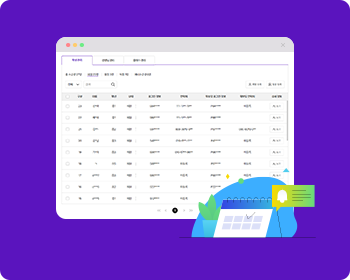
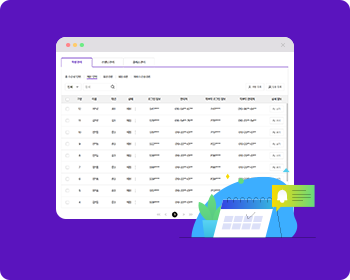
메인, 교재, 문제지 수정

diff --git a/inc/css/sub_que.css b/inc/css/sub_que.css
@@ -857,6 +857,9 @@
 .sub06-que .sub06-student .tab-list-type01 .chk-acc span:nth-child(8) .btn-icon {
   width: 36px;
 }
+.sub06-que .sub06-student .tab-list-type01 .chk-acc span .box {
+  border: 1px solid #ddd;
+}
 .sub06-que .sub06-student .tab-list-type01 .chk-acc span .box em {
   position: absolute;
   color: #333333;
@@ -864,7 +867,7 @@
 }
 .sub06-que .sub06-student .tab-list-type01 .chk-acc span .box em:nth-child(1) {
   top: 3px;
-  left: 3px;
+  right: 33px;
 }
 .sub06-que .sub06-student .tab-list-type01 .chk-acc span .box em:nth-child(1)::after {
   position: absolute;
@@ -982,10 +985,12 @@
   justify-content: space-between;
 }
 .sub08-01 .tab-list-type02 .num {
-  width: 47px;
+  width: 56px;
+  word-break: break-all;
 }
 .sub08-01 .tab-list-type02 .label {
   padding: 9px 20px;
+  margin-left: 10px;
   color: #f13e26;
   font-size: 14px;
   border-radius: 18px;

diff --git a/inc/scss/sub_que.scss b/inc/scss/sub_que.scss
@@ -917,12 +917,13 @@
             }
           }          
           .box {
+            border: 1px solid #ddd;
             em {
               position: absolute;
               color: $color-sub33;
               font-size: 11px;
               &:nth-child(1) {
-                top: 3px;left: 3px;
+                top: 3px;right: 33px;
                 &::after {
                   position: absolute;
                   bottom: -15px;right: -2px;
@@ -1058,10 +1059,12 @@
       }
     }
     .num {
-      width: 47px;
+      width: 56px;
+      word-break: break-all;
     }
     .label {
       padding: 9px 20px;
+      margin-left: 10px;
       color: #f13e26;
       font-size: 14px;
       border-radius: 18px;

diff --git a/html/sub08_01_01_que.html b/html/sub08_01_01_que.html
@@ -399,7 +399,7 @@
                   <ul class="scroll-inner">
                     <li>
                       <div class="cnt">
-                        <em class="num">4-1</em>
+                        <em class="num">가가가가가가가</em>
                         <span class="cnt">㉢,㉠,㉡,㉣</span>
                       </div>
                       <div class="chk-wrap">
@@ -552,7 +552,7 @@
     <div class="dim"></div>
 
     <!-- 교재 변경 팝업 -->
-    <div class="pop-wrap table-type02" data-pop="pop01" style="display: block;">
+    <div class="pop-wrap table-type02" data-pop="pop01">
       <div class="pop-inner">
         <div class="pop-header">
           <span>교재 변경</span>

diff --git a/html/sub08_01_que.html b/html/sub08_01_que.html
@@ -393,7 +393,7 @@
                   </div>
                   <ul class="scroll-inner">
                     <li>
-                      <em class="num">4-1</em>
+                      <em class="num">가가가가가가가</em>
                       <em class="label">틀린 학생</em>
                       <div class="name-wrap">
                         <span class="name">김둘리</span>
